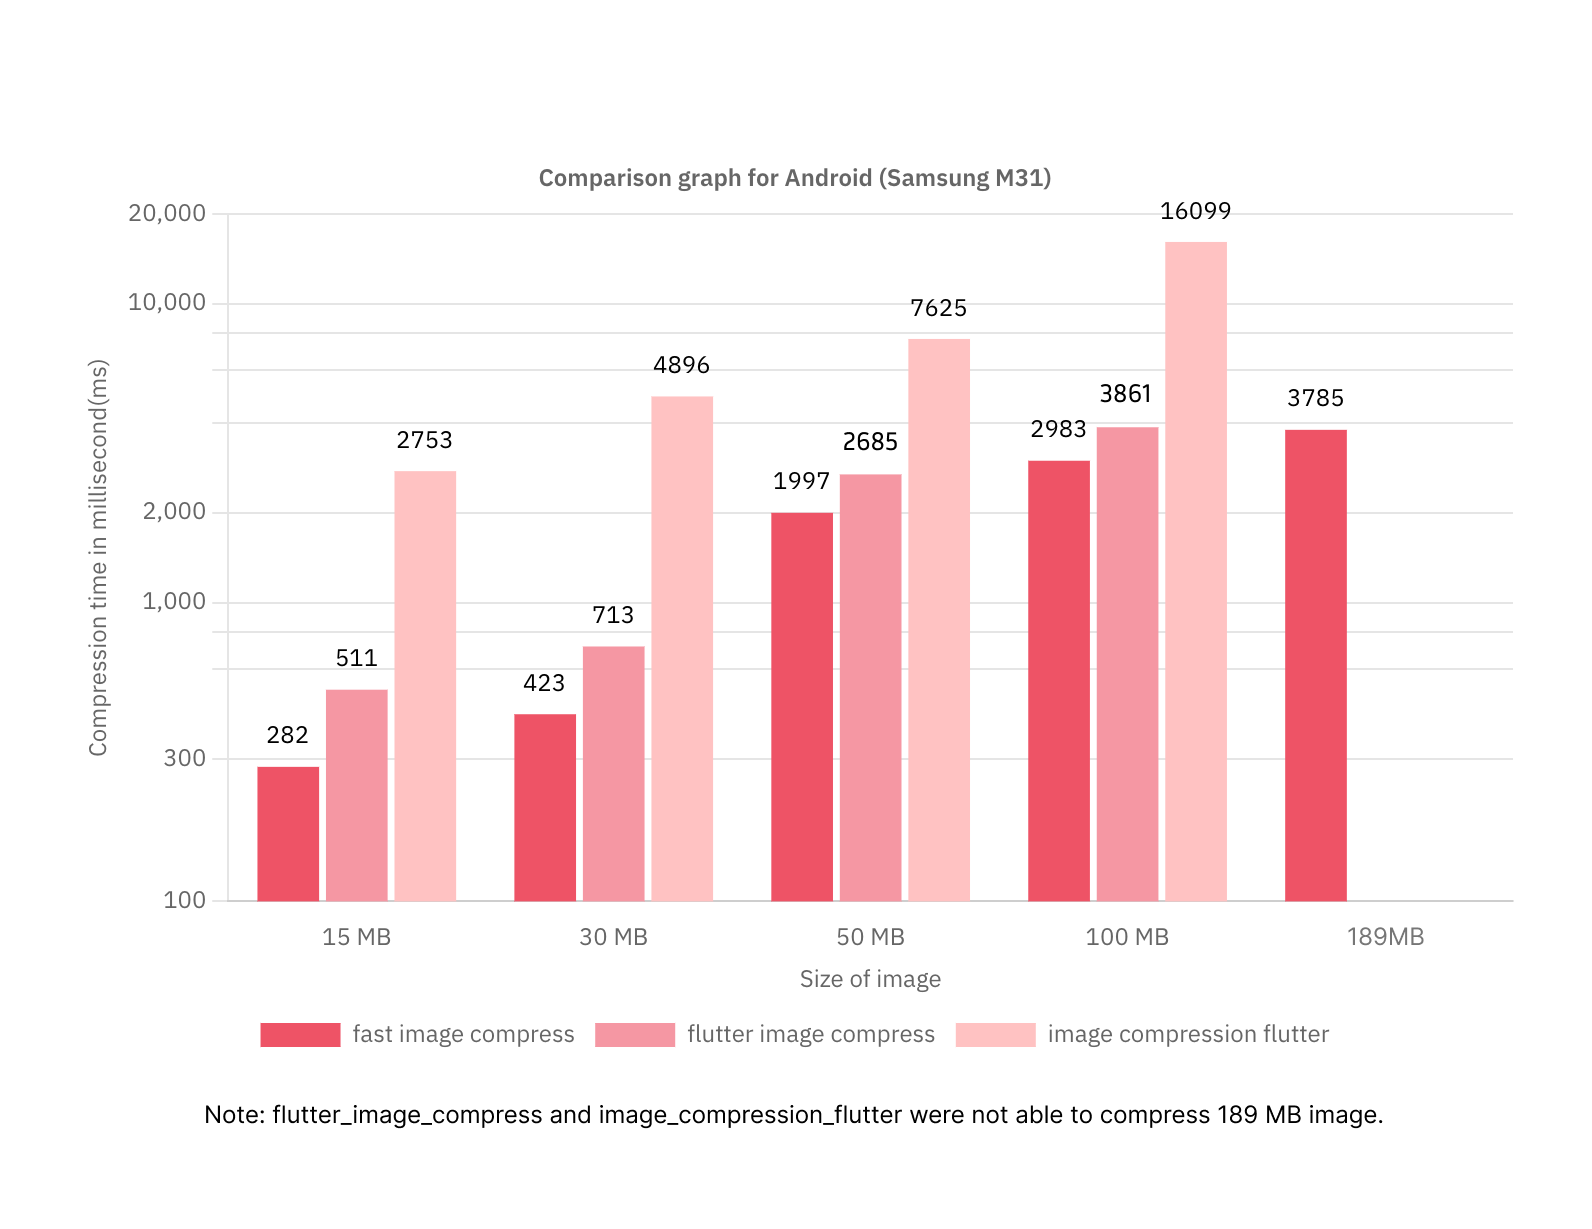
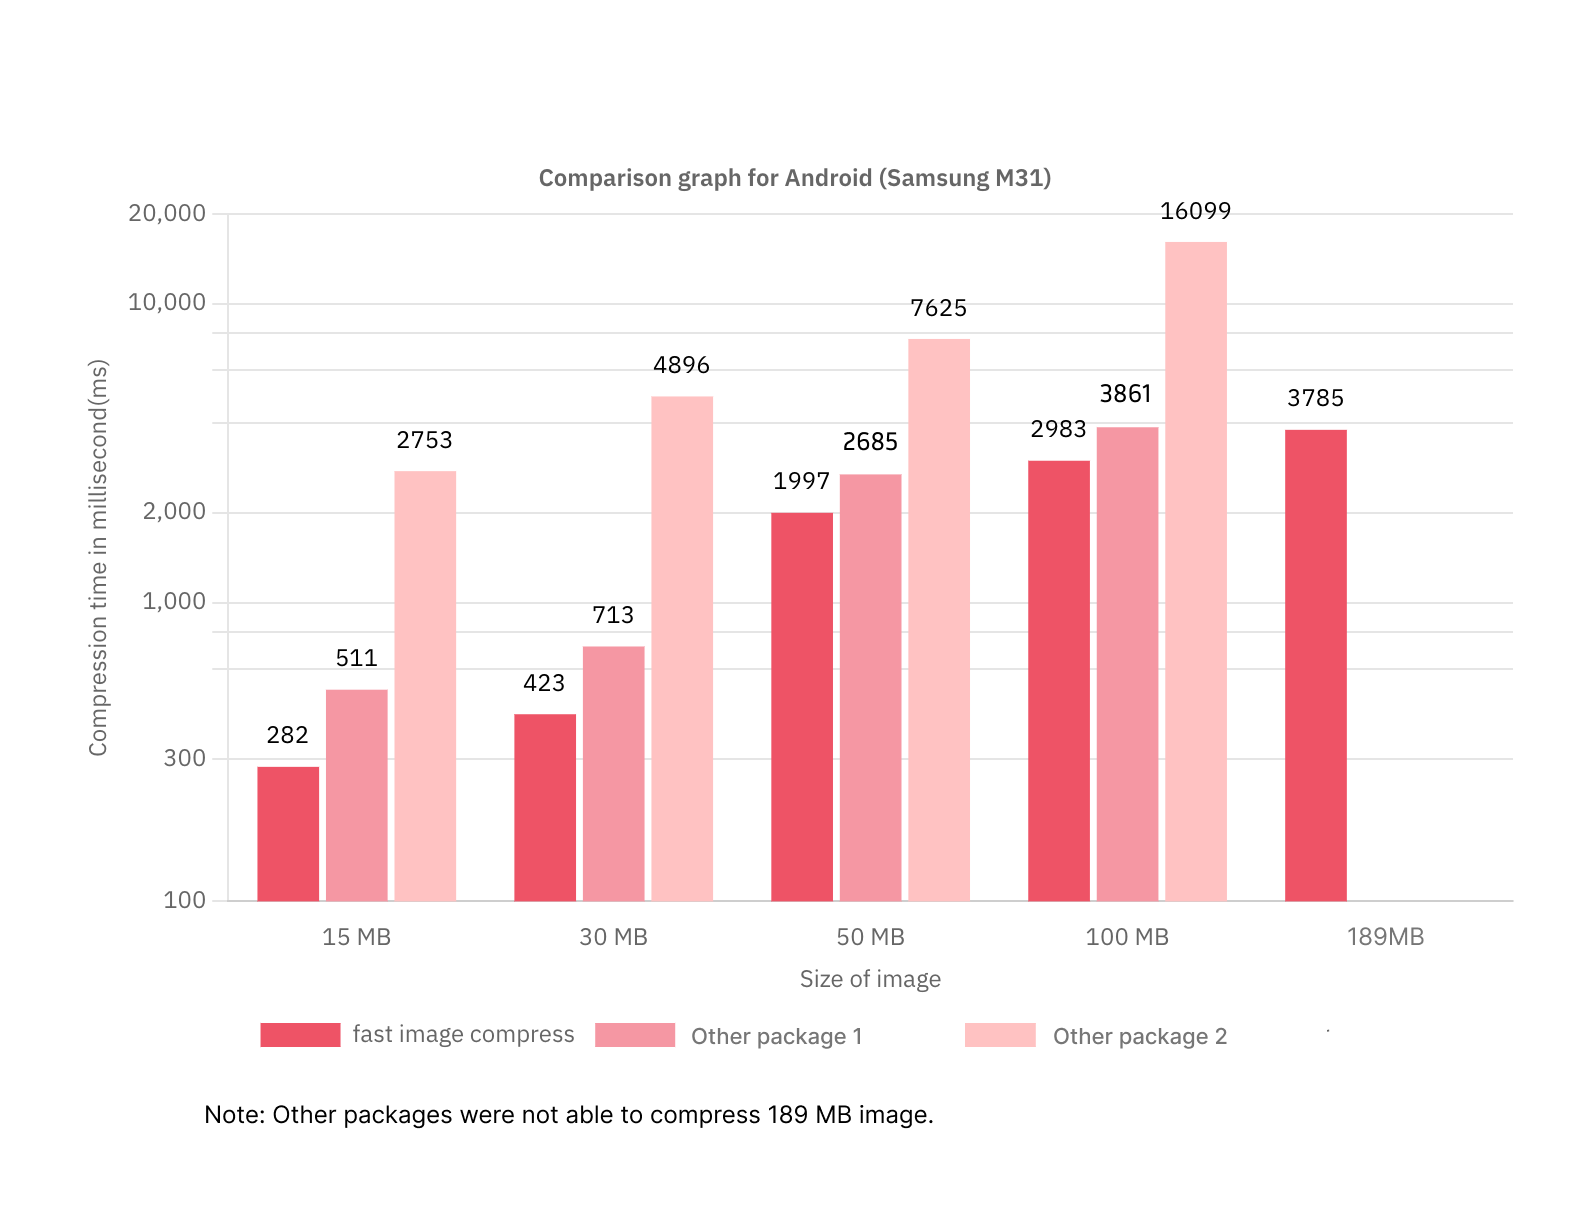
:memo: Updated readme and graphs

Changed region(s): [[0.1539, 0.8967, 0.8618, 0.9276], [0.6464, 0.8348, 0.831, 0.8657], [0.4309, 0.8348, 0.6156, 0.8657]]

diff --git a/README.md b/README.md
@@ -157,6 +157,18 @@ Only support API 28+.
 
 Note: Requires hardware encoder support, so availability is not guaranteed on all devices running API 28 or higher.
 
+## Why fast_image_compress
+
+The following bar graph demonstrates the efficiency of our plugin compared to two other existing packages. 
+The comparison was conducted by compressing one image at a time for various image sizes, measuring the time taken in milliseconds (Y-axis) against the image size in MB (X-axis).
+
+Below are the comparison graphs:
+
+![Android Comparison Graph](https://raw.githubusercontent.com/SimformSolutionsPvtLtd/fast_image_compress/master/preview/android_comparison_graph.png)
+![iOS Comparison Graph](https://raw.githubusercontent.com/SimformSolutionsPvtLtd/fast_image_compress/master/preview/iOS_comparison_graph.png)
+
+This visual representation highlights the better performance of our plugin in terms of compression speed and efficiency across different image sizes.
+
 ## License
 
 ```
